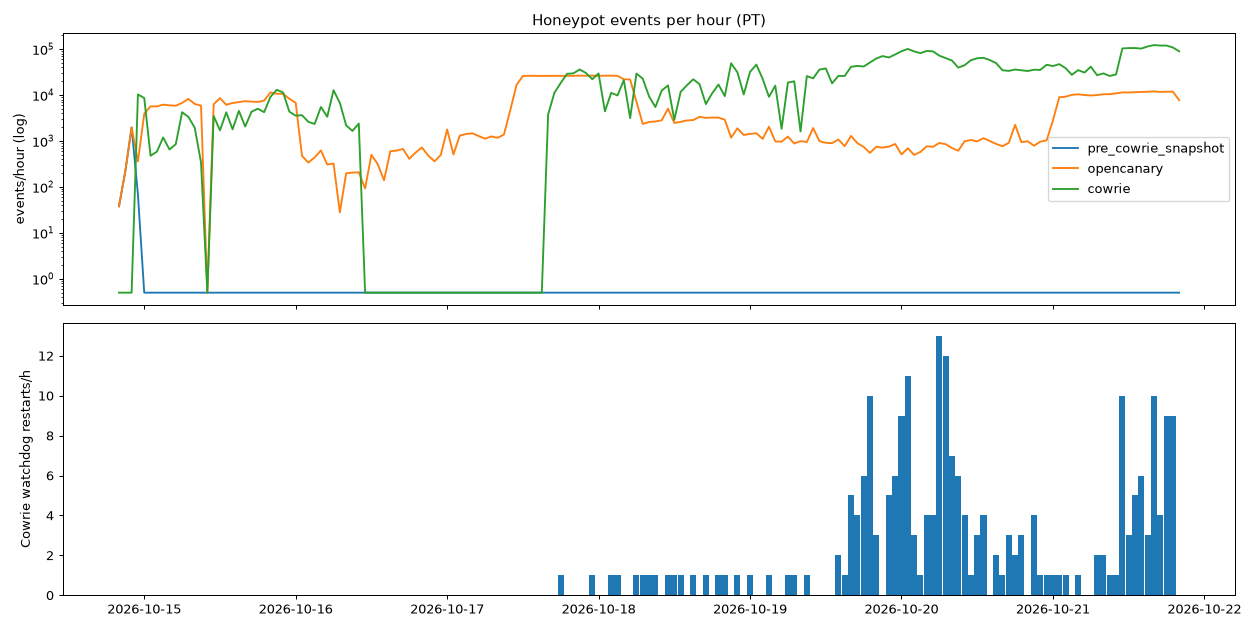
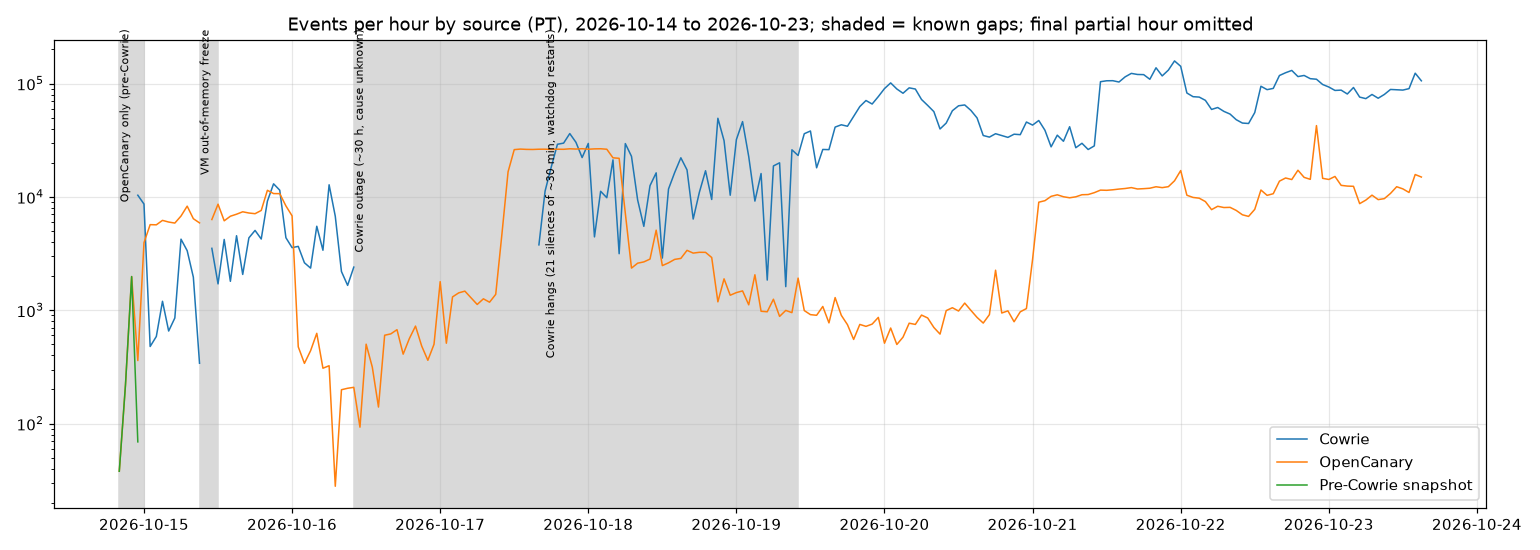
Final data and docs: Top 10 and gaps docs with final totals, hourly chart omits shutdown hour and shades Cowrie hangs, setup.sh downloads prebuilt DBs from Hugging Face (hznd67/canarydash-honeypot)

diff --git a/dashboard/build_stats.py b/dashboard/build_stats.py
@@ -54,12 +54,13 @@ newrep = [{"day": d, "new": sum(1 for ip, s in ip_days.items() if d in s and fir
            "repeat": sum(1 for ip, s in ip_days.items() if d in s and first[ip] < d)} for d in days]
 gaps = [{"from": "2026-10-14 20", "to": "2026-10-14 23", "label": "OpenCanary only (pre-Cowrie)"},
         {"from": "2026-10-15 09", "to": "2026-10-15 11", "label": "VM out-of-memory freeze"},
+        {"from": "2026-10-17 17", "to": "2026-10-19 09", "label": "Cowrie hangs (21 silences of ~30 min, watchdog restarts)"},
         {"from": "2026-10-16 10", "to": "2026-10-17 16", "label": "Cowrie outage (~30 h, cause unknown)"}]
 top = lambda c, ips, n: [{"k": k, "n": v, "ips": len(ips[k])} for k, v in c.most_common(n)]
 S = {"generated_from": os.path.basename(DB), "range_pt": ["2026-10-14 20:51", "2026-10-23 16:16"],
      "totals": {"events": sum(sum(c.values()) for c in hourly.values()), "cowrie_ips": len(cw_ips), "opencanary_ips": len(oc_ips),
                 "sessions": sum(sum(c.values()) for c in day_sess.values()), "downloads": sum(dl_hash.values()), "unique_files": len(dl_hash), "failed_downloads": dl_fail},
-     "hourly": [{"h": h, **hourly[h]} for h in sorted(hourly)], "gaps": gaps,
+     "hourly": [{"h": h, **hourly[h]} for h in sorted(hourly)][:-1]  # final partial shutdown hour omitted from charts; still in totals, "gaps": gaps,
      "sessions_per_day": [{"day": d, **day_sess[d]} for d in sorted(day_sess)],
      "countries": top(country, cips, 15), "asns": top(asn, aips, 15), "creds": top(creds, credip, 20), "chains": top(ch, chip, 12),
      "malware_hashes": top(dl_hash, dl_hash_ips, 12), "downloads_per_day": [{"day": d, "n": dl_day[d]} for d in sorted(dl_day)],

diff --git a/dashboard/full/server.py b/dashboard/full/server.py
@@ -1,6 +1,6 @@
 #!/usr/bin/env python3
 """CanaryDash static archive server. Read-only, Python stdlib only, 127.0.0.1 only, makes no outbound connections.
-/ = static overview + docs (dashboard/site, works without a DB); /explorer = event browser over the local SQLite built by ./setup.sh.
+/ = static overview + docs (dashboard/site, works without a DB); /explorer = event browser over the local SQLite downloaded by ./setup.sh.
 Usage: python3 dashboard/full/server.py [port]   (default 8802)"""
 import gzip, json, os, sqlite3, sys, time
 import explore

diff --git a/docs/TOP10_FINDINGS.md b/docs/TOP10_FINDINGS.md
@@ -1,28 +1,24 @@
-# Top 10 findings (data through Oct 21, 2026, 8:38 PM PT)
-
-> Written from data through Oct 21. Final totals through Oct 23 (project end) are in `FINAL_SUMMARY.md`.
+# Top 10 findings (final, 2026-10-14 to 2026-10-23)
 
 > **Terms:** a *session* is one connection to the fake SSH/Telnet login (Cowrie). A *credential* is the username/password a bot tried. An *ASN* is the network operator that owns an IP. *HASSH* is a fingerprint of an SSH client's settings. More terms are in `GLOSSARY.md`.
 
-Source: the SQLite index built from this repo's logs (5,409,998 events, read-only; see `dashboard/build_stats.py`). Cowrie window: Oct 14, 11:23 PM PT to Oct 21, 8:38 PM PT.
+Source: `dashboard/site/stats.json`, built from this repo's final logs (9,899,436 events; see `dashboard/build_stats.py`). Collection: 2026-10-14 20:51 PT to 2026-10-23 16:16 PT. Cowrie from 2026-10-14 ~23:20 PT.
 
-1. **One Telnet botnet makes up most of the traffic.** Of 233,760 Cowrie sessions, 216,710 (93%) were Telnet and only 17,050 were SSH, but the number of IPs was about the same on each (544 vs 563). Telnet logins succeeded 190,198 times. Telnet bots are few, and each one retries tirelessly.
-2. **A few residential IPs in Pakistan and China do most of it.** By sessions, Pakistan leads with 120,133 and China follows with 72,803, while the US has only 2,485. The single busiest IP, 182.115.160.251 (China Unicom), opened 35,143 sessions. Next come 124.29.251.150 with 20,949 and 124.29.221.223 with 17,246, both on Cyber Internet Services in Pakistan.
-3. **The "ximo" with blank password campaign.** `ximo` with an empty password is the top credential, used 31,172 times by 29 IPs. 19 of those IPs are in Pakistan (16 on Cyber Internet Services) and 8 are on China Unicom, which is the same cluster as finding 2.
-4. **The credentials are IoT and router factory defaults, not human passwords.** The top pairs are root/xc3511 (10,915, a Xiongmai DVR default), root/Zte521 (8,693), root/samsung (7,391), draytek/1234 (5,298), 8ehomeasb (5,150), cuadmin/cu@Hnunicom (3,312, China Unicom routers), admin/CenturyL1nk (2,708) and root/7ujMko0admin (1,426, a known Mirai default). admin/admin came from the most IPs, 219.
-5. **Mirai-style droppers were scripted the same way thousands of times.** The most common command chain (`start; enable; config terminal; system; linuxshell; su; sh; ...cd to a writable dir; /bin/busybox ...`) ran 32,870 times from a single IP. Variants of it fill nearly all of the top 25 chains. Bots wrote an ARM ELF header with `echo -e '\x7F\x45\x4C\x46...'` and ran `/bin/busybox HISILICON`, which targets HiSilicon camera chipsets.
-6. **There were 106,944 malware downloads but only 70 unique files.** Nearly all of them fetched a file named `i` from high ports on the attackers' own IPs, such as http://123.233.198.83:52155/i (6,716 times). That points to infected devices serving the payload to the next victim (peer spreading). Three hashes dominate: 12013662… (55,949 + 913 downloads, 23 IPs), 4293c1d8… (25,255 + 830, 20 IPs) and f6c97b1e… (16,117 + 269, 12 IPs). Another 32,951 downloads failed.
-7. **The "mdrfckr" SSH key backdoor.** 69 IPs ran `rm -rf .ssh && mkdir .ssh && echo "ssh-rsa AAAAB3...ArDp4cun... mdrfckr" >> .ssh/authorized_keys`, 88 times in total. The written file has hash a8460f44…, and that hash was logged from exactly the same 69 IPs. The top countries were China (16), US (9) and Vietnam (6), and the IPs sit mostly on cloud hosts (Volcano Engine, UCloud, Oracle, Baidu). This is a different group from the Telnet botnet.
-8. **SSH is a Go scanner.** 15,485 of 16,094 SSH client banners (96%) were `SSH-2.0-Go`, from 147 IPs: 49 in the US, 39 in the Netherlands, 24 on TechTies and 15 on Censys. One HASSH fingerprint, 0a07365c…, covered 14,334 key exchanges from just 24 IPs.
-9. **Volume grew every day, and most IPs show up only once.** Daily sessions went 10,337 (Oct 15) → 23,897 (Oct 18) → 46,768 (Oct 19) → 66,626 (Oct 20) → 72,107 (Oct 21, partial day). Of 1,021 Cowrie IPs, 896 (88%) came on only one day, and only 2 came on all 8 days: 50.2.184.242 (Eonix) and 20.39.42.109 (Microsoft). Sessions are short, with a median of 5.0 s and 99% under 181 s.
-10. **OpenCanary shows what Cowrie can't, and the scanners are mostly cloud.** Redis on port 6379 got 517,487 hits from 348 IPs, with 156 of those IPs on one ASN, AO ALMAZ. Next came VNC on 5900 (201,260 hits; Tencent and Alibaba lead) and RDP on 3389 (476 IPs, the most of any port, led by Google and Microsoft). Only 233 IPs hit both OpenCanary and Cowrie, out of 2,059 and 1,021.
+1. **One Telnet botnet makes up most of the traffic.** Of 428,996 Cowrie sessions, 405,429 (94.5%) were Telnet and only 23,567 were SSH. 1,417 IPs reached Cowrie and 3,284 reached OpenCanary.
+2. **A few residential networks in Pakistan and China do most of it.** By sessions, Pakistan leads with 204,876 (52 IPs) and China follows with 129,436 (155 IPs); the US has only 2,721 despite 291 IPs. The top networks are AS9541 Cyber Internet Services, Pakistan (175,327 sessions from 31 IPs) and AS4837 China Unicom (114,292 from 31 IPs).
+3. **The "ximo" with blank password campaign.** `ximo` with an empty password is the top credential, tried 44,387 times by 49 IPs.
+4. **The credentials are IoT and router factory defaults, not human passwords.** Next come root/xc3511 (16,339, a Xiongmai DVR default), root/Zte521 (16,106), admin/admin (13,892, from the most IPs: 295), root/888888 (13,581), root/070admin (10,201), root/samsung (8,526) and root/user (8,466).
+5. **Mirai-style droppers were scripted the same way tens of thousands of times.** The most common command chain (`start; enable; config terminal; system; linuxshell; su; sh; ...cd to a writable dir; /bin/busybox ...`) ran 46,722 times from a single IP; `uname -s -v -n -r -m` (19,433 times, 22 IPs) is the most common recon command.
+6. **205,453 malware download attempts but only 81 unique files.** 62,646 attempts failed. Three hashes dominate: 12013662… (105,467 downloads, 46 IPs), 4293c1d8… (43,460, 32 IPs) and f6c97b1e… (33,269, 18 IPs). Payloads were mostly fetched from the attackers' own IPs on high ports, which points to infected devices serving the next victim.
+7. **The "mdrfckr" SSH key backdoor** (detail measured through Oct 21): 69 IPs ran `rm -rf .ssh && mkdir .ssh && echo "ssh-rsa ... mdrfckr" >> .ssh/authorized_keys`, mostly from cloud hosts.
+8. **SSH is mostly a Go scanner** (detail measured through Oct 21): 96% of SSH client banners were `SSH-2.0-Go`, and one HASSH fingerprint covered most key exchanges from just 24 IPs.
+9. **Volume grew almost every day, and most IPs are new each day.** Daily sessions went 10,337 (Oct 15) → 23,897 (Oct 18) → 46,768 (Oct 19) → 66,626 (Oct 20) → 94,160 (Oct 21) → 100,259 (Oct 22) → 72,924 (Oct 23, stopped 16:16). Every day 160–230 Cowrie IPs were new versus 50–66 repeats.
+10. **OpenCanary shows what Cowrie can't.** Port scans (568,013 events, 2,194 IPs), Redis 6379 (517,365, 368 IPs), VNC 5900 (266,736, 247 IPs), RDP 3389 (150,942, 517 IPs, the most-scanned real service by IP count) and MySQL 3306 (28,651). Only 689 IPs hit both OpenCanary and Cowrie. The step-up in the OpenCanary line from 2026-10-21 00:00 PT is attacker-side: VNC 5900 hits jumped from ~0 to 8,000–9,000 per hour, led by 164.68.102.175, 84.46.252.220 and 84.46.250.47 (~11,000 hits each overall). The VNC service had been enabled and unchanged since Oct 15.
 
-Bonus: time of day. Cowrie sessions peak 7 to 9 PM PT (8 PM: 12,673) and bottom out at 8 to 10 AM PT (9 AM: 5,029).
+Bonus: time of day. Cowrie sessions peak around midnight PT (00:00: 22,509) and bottom out at 9 AM PT (11,329).
 
 ## Method and caveats
-- Counts come from a read-only SQLite index of the raw logs. Cowrie counts come from the eventid inside each raw record. Times were converted from utc_time to PT.
-- **Gaps:** Oct 16 (4,954) and Oct 17 (8,920) are low because Cowrie recorded nothing from Oct 16 ~10:20 AM to Oct 17 ~4 PM PT (an outage of about 30 hours). See `DATA_GAPS_AND_ISSUES.md`. Oct 21 ends at 8:38 PM PT.
-- Geo and ASN data come from offline DB-IP Lite. 1,334 of 2,899 IPs have no Cloud/Home tag. Country is by IP and doesn't mean the attacker is there.
-- Cowrie accepts most logins (205,666 succeeded vs 7,507 failed), so "successful logins" means the bot got in to Cowrie, not to a real device. Commands and downloads were captured by the emulator. Nothing was unpacked.
-- "Command chain" means all inputs in a session joined together, and the top chains differ only by the target folder or payload. Malware types were not checked against VirusTotal. Labels such as Mirai or Xiongmai are inferred from public default creds and the HISILICON/busybox pattern.
-- The first Cowrie session (Oct 14, 11:23 PM PT) came from 172.58.210.229 (T-Mobile US) and lasted 99 ms. It is possibly test traffic from the operator. The pre-Cowrie snapshot (2,324 events, 96 IPs) also includes what looks like possible test traffic from AWS (32.192.139.229).
+- Counts come from a read-only SQLite index of the raw logs; times are PT. Duplicate rotated logs are de-duplicated.
+- **Gaps:** Cowrie recorded nothing from Oct 16 ~10:20 AM to Oct 17 ~4 PM PT (about 30 hours), and from Oct 17 evening to Oct 19 morning it hung 21 times for ~30 minutes each until the watchdog restarted it. See `DATA_GAPS_AND_ISSUES.md`.
+- Geo and ASN data come from offline DB-IP Lite. Country is by IP and doesn't mean the attacker is there.
+- Cowrie accepts most logins, so "successful logins" means the bot got in to Cowrie, not to a real device. Malware labels such as Mirai or Xiongmai are inferred from default creds and the busybox pattern, not checked on VirusTotal.

diff --git a/README.md b/README.md
@@ -33,14 +33,16 @@ See `docs/FINAL_SUMMARY.md` for the final summary.
 Files over 20 MB were gzipped (`data/GZIPPED_FOR_REPO.txt`), and anything still over 95 MB was split into 90 MB `.partNN` chunks to fit GitHub's limit. To rejoin a split file, run `cat file.gz.part* | gunzip > file`.
 
 ## Static archive: no live components
-This repository is a **static, read-only, offline snapshot**. It doesn't connect to the honeypot, any cloud service or any remote URL. It has no refresh or pull features and no auto-reload, and there's no hosted version.
+This repository is a **static, read-only, offline snapshot**. It doesn't connect to the honeypot or any cloud service. The only network access is `./setup.sh` downloading the static, prebuilt databases once from the Hugging Face dataset [hznd67/canarydash-honeypot](https://huggingface.co/datasets/hznd67/canarydash-honeypot). It has no refresh or pull features and no auto-reload, and there's no hosted version.
 
 ## View the dashboard locally
-Requires Python 3 (standard library only).
+Requires Python 3 (standard library only), plus `curl` and `zstd` for the one-time download.
 ```bash
-python3 dashboard/full/server.py 8802      # port optional, default 8802
+./setup.sh            # downloads the prebuilt DBs (~GB) from Hugging Face, checks sha256, decompresses into ./unpacked, starts the server
 # open http://127.0.0.1:8802
+# later runs: python3 dashboard/full/server.py 8802
 ```
+Nothing is rebuilt from the logs; the databases on Hugging Face were built once from the logs in this repo (`dashboard/full/ingest.py`, `dashboard/full/build_query_index.py`, kept for reference).
 - `/` shows the overview charts (precomputed in `dashboard/site/stats.json`) and all the docs, and needs no setup.
 - `/#explore` is **Explore & query**, a query builder over the full dataset that runs on your own machine. It has:
   - filters for source, PT time range, IP/CIDR, protocol, event type, port, username, password, command, malware hash, URL, country, ASN, persona and session, each with an option to exclude matches;
@@ -50,8 +52,8 @@ python3 dashboard/full/server.py 8802      # port optional, default 8802
   - nine example queries.
 
   Every chart (Explore and the overview pages) has **PNG** and **Copy** buttons. They export the chart at 2x resolution on the current theme's background, with the title, active filters, PT time range and a footer.
-  The current query is stored in the URL, so a link reopens the same view. It needs `./setup.sh`, which builds the indexed `unpacked/explore.sqlite`. The query endpoints (`/api/x/*`) are read-only, accept only whitelisted fields and fixed parameterized SQL, and stop any query after 15 s. This is **local querying of a static archive, not a live feed**.
-- `/explorer` is an event-by-event browser. It needs the local SQLite index: run `./setup.sh` once, which unpacks the logs into `./unpacked` and builds the index.
+  The current query is stored in the URL, so a link reopens the same view. It needs `./setup.sh`, which downloads the indexed `unpacked/explore.sqlite`. The query endpoints (`/api/x/*`) are read-only, accept only whitelisted fields and fixed parameterized SQL, and stop any query after 15 s. This is **local querying of a static archive, not a live feed**.
+- `/explorer` is an event-by-event browser. It needs the local SQLite index: run `./setup.sh` once, which downloads it into `./unpacked`.
 - The chart and markdown libraries are vendored in `dashboard/site/vendor`, so there are no CDN requests.
 - To regenerate the stats, run `python3 dashboard/build_stats.py unpacked/canarydash-full.sqlite`. Country and ASN charts need DB-IP Lite `.mmdb` files during ingest (not included).
 
@@ -59,7 +61,7 @@ python3 dashboard/full/server.py 8802      # port optional, default 8802
 - **Malware samples**: Cowrie `downloads/` and the `downloads_DO_NOT_RUN.tar.gz` archive. They are live MIPS/ARM/x86 malware, and GitHub doesn't allow them. Their hashes and URLs are still in the logs and in `downloads_listing.txt`.
 - **Operational code**: shippers, uploaders, the watchdog, the profiler, poll/pull/refresh scripts, cron jobs and the cloud worker. They're described in prose in `docs/ADMIN_NOTES.md`.
 - **Owner secrets**: the shipper config (`/etc/canary-shipper.json`, never copied), SSH keys, `.env` files, and the dashboard's online password file.
-- **Derived or duplicate data**: `canarydash-full.sqlite` (3.7 GB, rebuilt by `setup.sh`), `daily/` backup snapshots (copies of the same logs), and `events.jsonl`/`poller-cache` (copies of the live logs).
+- **Derived or duplicate data**: `canarydash-full.sqlite` and `explore.sqlite` (7.3 GB and 4.0 GB, published compressed on Hugging Face and fetched by `setup.sh`), `daily/` backup snapshots (copies of the same logs), and `events.jsonl`/`poller-cache` (copies of the live logs).
 - **DB-IP `.mmdb` geo databases**: the 127 MB file is over the size limit. They're free from db-ip.com (the Lite city/ASN versions).
 
 ## What "adaptive personas" means

diff --git a/docs/DATA_GAPS_AND_ISSUES.md b/docs/DATA_GAPS_AND_ISSUES.md
@@ -1,6 +1,6 @@
 # Data gaps, drops and anomalies
 
-All times are PT. The empirical numbers come from `events_per_hour_pt.csv` and `events_per_hour_pt.png`, computed over the whole range (2026-10-14 20:00 → 2026-10-21 20:00 PT, 169 hours).
+All times are PT. The empirical numbers come from `events_per_hour_pt.csv` and `events_per_hour_pt.png`, computed over the whole range (2026-10-14 20:00 → 2026-10-23 16:00 PT, 212 hours).
 An hour is "low" when it has under 10% of that source's median. The medians are 1,894 events/hour for OpenCanary and 14,567 for Cowrie. Cowrie counts are deduplicated across the live log, the rotated logs and the compressed copies.
 
 ## Known issues
@@ -11,7 +11,7 @@ An hour is "low" when it has under 10% of that source's median. The medians are 
 | 3 | 10-15 ~09:00 → 11:06 | VM OOM freeze: 0 events in the 10:00 hour for both sources, and the 09:00 hour was low | Overlapping `snapshot.py`/`shipper.py` cron jobs ran out of memory | Events from about 1 hour are lost on both OpenCanary and Cowrie. |
 | 4 | from 10-15 00:59 | D1 read limit, then the write limit (10-15 17:18) | Cloudflare D1 free-tier limits | The web dashboard showed KV snapshots of the newest 20k events, and the D1 archive lags with a queued backfill. **The raw VM logs (this repo) are unaffected.** |
 | 5 | 10-16 ~10:20 → 10-17 ~16:00 | **Cowrie outage of about 30 hours**: 0 Cowrie events from 11:00 on 10-16 through 15:00 on 10-17 | Not logged. The native log ends at 10:20, and the converted `cowrie-canary.log` also stops at that time. There is no record of a crash. A hang or crash under memory pressure is likely, but the cause is **unknown**. The idle watchdog first appears afterwards (10-17 18:25). | Cowrie data for that window is lost. OpenCanary kept logging, but its 07:00, 11:00 and 14:00 hours on 10-16 were low (28, 93 and 140 events), cause **unknown**. |
-| 6 | 10-17 → 10-21 | Cowrie watchdog restarts (231 logged: 12 on 10-18, 17 on 10-19, 119 on 10-20, 61 on 10-21 and 22 early on 10-22 UTC). 23 were for an idle log and 208 were pre-emptive because memory was above about 300 MB. | Cowrie's memory growth on a small VM | Each restart drops the live sessions and costs a few seconds to a minute of downtime. Expect truncated sessions and missing `session.closed` events. No hour drops below the threshold. |
+| 6 | 10-17 → 10-23 | Cowrie watchdog restarts (892 logged: 12 on 10-18, 17 on 10-19, 119 on 10-20, 61 on 10-21, 222 on 10-22 and 461 on 10-23 UTC). 23 were for an idle log and 869 were pre-emptive because memory was above about 300 MB. | Cowrie's memory growth on a small VM | Each restart drops the live sessions and costs a few seconds to a minute of downtime. Expect truncated sessions and missing `session.closed` events. No hour drops below the threshold. |
 | 7 | 10-15 → 10-18 13:54 | Old CanaryDash poller re-downloaded everything (about 387 GB of Azure egress) | A bug in the polling design | No data loss. It caused the Azure budget alert, and pulls became manual and incremental. |
 | 8 | various | Mac offline | The laptop was asleep or away | The daily backups are missing or late on those days, so the `daily/` snapshots are uneven. The VM kept logging, so the full copy in this repo is complete. |
 | 9 | each rotation | rsync code 24 ("vanished files") during the full copy, and code 23 in the daily backups | Cowrie rotated or compressed a log mid-copy (24). The 23s come from `Permission denied` on some capture files in `downloads/`. | No log data lost. The newest live files can differ slightly from `VM_COUNTS.txt`. |
@@ -24,4 +24,9 @@ An hour is "low" when it has under 10% of that source's median. The medians are 
 - The root cause of the 30-hour Cowrie outage on 10-16/10-17: **unknown**, and no journald logs are in the data.
 
 ## Not available in the data
-There are no journald or syslog files and no VM boot records. OpenCanary startup messages (logtypes 1000–1002) mark its restarts, which happened at 10-14 20:00, 23:00, 10-15 00:00 and 11:00.
+There are no journald or syslog files and no VM boot records. OpenCanary startup messages (logtypes 1000–1002) mark its restarts, which happened at 10-14 20:00, 23:00, 10-15 00:00, 11:00 and 10-21 23:00.
+
+
+**Cowrie hangs 10-17 17:53 → 10-19 09:00 PT (shaded on the hourly chart):** the sharp single-hour dips in the Cowrie line are honeypot-side. `/var/log/cowrie_watchdog.log` shows 21 "log idle" restarts in this window, each after ~1,760–2,075 s (~30 min) of a silent Cowrie log (e.g. 10-19 03:11→03:45, 05:27→06:00, 08:29→09:00 PT). In those minutes every attacker IP drops to zero at once, so it is a logging/service hang, not attacker behaviour. Events during the hangs were not recorded.
+
+**Final partial hour:** the services were stopped at 2026-10-23 16:16 PT, so the 16:00 hour is omitted from the hourly charts (its events are still counted in all totals).

diff --git a/docs/ADMIN_NOTES.md b/docs/ADMIN_NOTES.md
@@ -59,8 +59,8 @@ Cowrie and OpenCanary configs are kept only as reference text (`*.reference.txt`
 | 2026-10-16 ~10:20 → 2026-10-17 ~16:00 | Cowrie produced no events (see the data-gaps doc). |
 | 2026-10-17 ~18:25 | First entry in the Cowrie watchdog log (idle-log restarts). |
 | 2026-10-15 → 2026-10-18 13:54 | The old Mac CanaryDash poller kept re-downloading the full logs (about 387 GB of egress, which pushed the Azure budget alert past $20). It was killed, and pulls became manual and incremental. |
-| 2026-10-19 | Pre-emptive memory restarts added to the watchdog. Restarts climbed to about 40–120 per day from 10-20 on. |
-| 2026-10-21 20:37 | Last event in this dataset (full copy taken 20:39). |
+| 2026-10-19 | Pre-emptive memory restarts added to the watchdog. Restarts climbed to 119 on 10-20, 222 on 10-22 and 461 on 10-23 (UTC days). |
+| 2026-10-23 16:16 | Services stopped and final full copy taken; last event in this dataset. The Azure VM and storage and the hosted dashboard were then removed. |
 
 ## Adaptive personas (in detail)
 **Terms.** A *honeypot* is a computer put on the internet only to be attacked, so the attacks can be recorded. *OpenCanary* is a honeypot that imitates many network services (FTP, web, databases and so on) and logs each attempt. *Cowrie* imitates an SSH/Telnet login and a Linux shell, and it records the attacker's commands and downloaded files. A *persona* is the fake identity the fake shell shows: its hostname, CPU type, kernel version, BusyBox banner and certain files.

diff --git a/docs/FINAL_SUMMARY.md b/docs/FINAL_SUMMARY.md
@@ -14,4 +14,4 @@
 - Credentials tried: `ximo / ` (44,387), `root / xc3511` (16,339), `root / Zte521` (16,106), `admin / admin` (13,892), `root / 888888` (13,581)
 - OpenCanary services: Port scan (568,013), Redis 6379 (517,365), VNC 5900 (266,736), RDP 3389 (150,942), MySQL 3306 (28,651)
 
-`docs/TOP10_FINDINGS.md` was written on Oct 21 from the first 7 days; its numbers cover only that period. The dashboard (`dashboard/site/stats.json`) has the final numbers.
+`docs/TOP10_FINDINGS.md` and the dashboard (`dashboard/site/stats.json`) use these final numbers.
